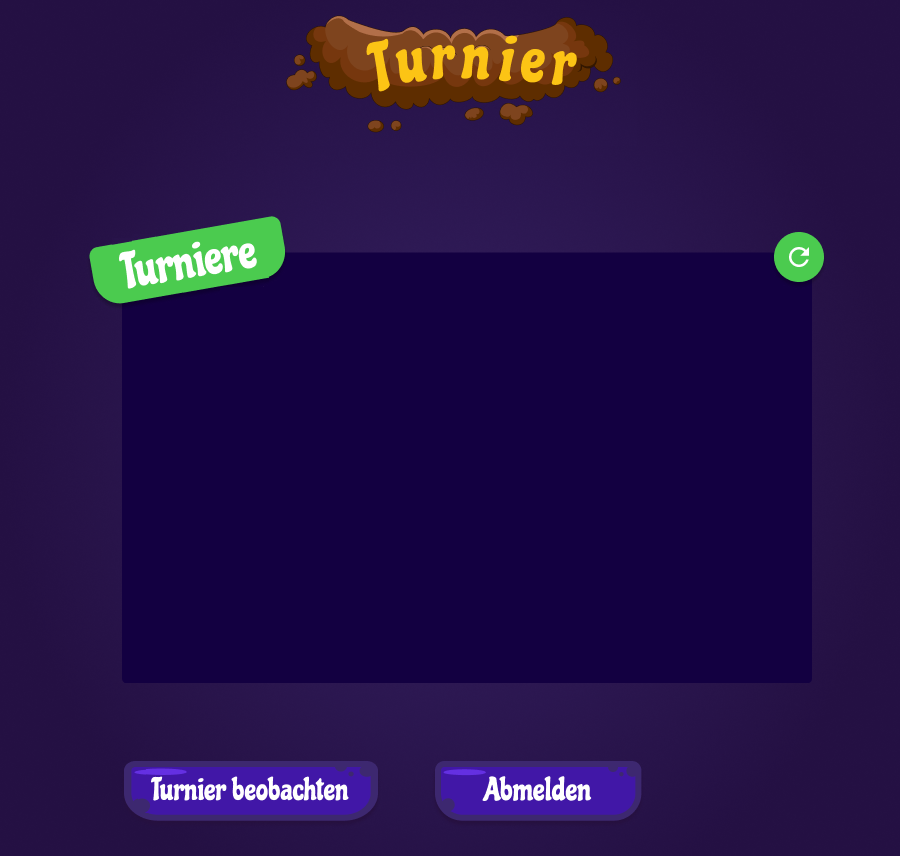
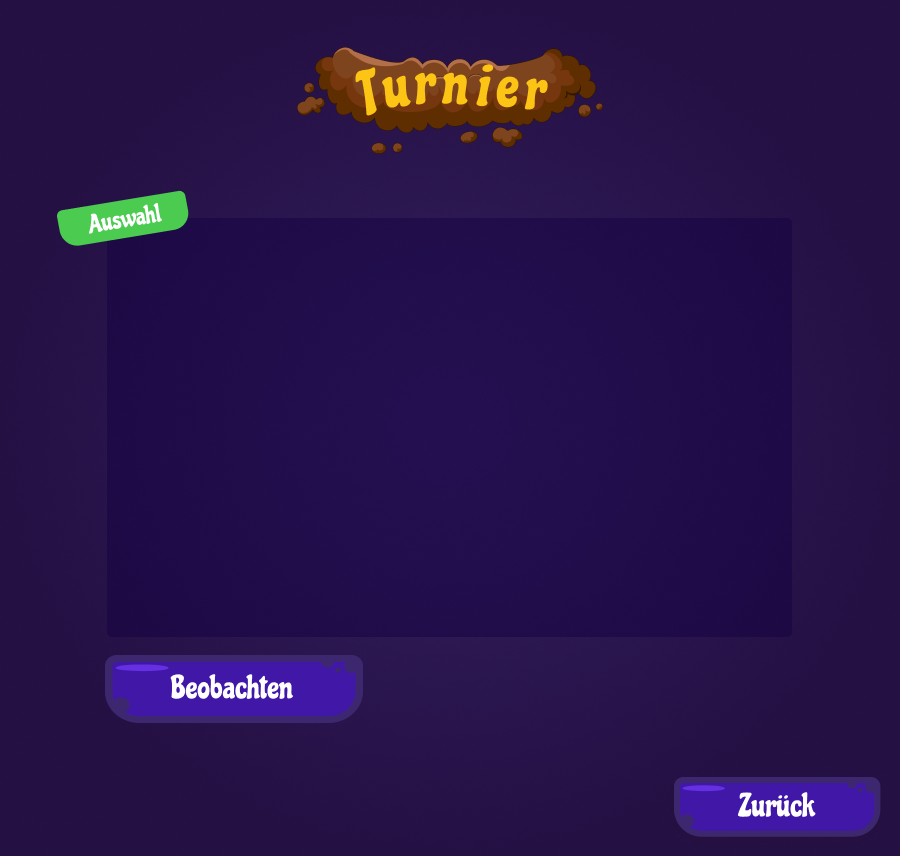
Game selection after login. Changes. Part 6

diff --git a/src/main/java/de/thundergames/gameplay/player/ui/TournamentSelection/TournamentSelection.java b/src/main/java/de/thundergames/gameplay/player/ui/TournamentSelection/TournamentSelection.java
@@ -11,12 +11,13 @@
  * requires the express written consent of ThunderGames | SwtPra10.
  */
 
-package de.thundergames.gameplay.player.ui.GameSelection;
+package de.thundergames.gameplay.player.ui.TournamentSelection;
 
 import de.thundergames.gameplay.player.networking.Client;
-import de.thundergames.gameplay.player.networking.ClientPacketHandler;
+import de.thundergames.gameplay.player.ui.GameSelection.GameSelection;
 import de.thundergames.gameplay.player.ui.SelectionShared;
 import de.thundergames.networking.util.interfaceItems.NetworkGame;
+import de.thundergames.playmechanics.util.Tournament;
 import javafx.event.ActionEvent;
 import javafx.fxml.FXML;
 import javafx.fxml.FXMLLoader;
@@ -36,58 +37,40 @@ import java.io.IOException;
 import java.net.URL;
 import java.util.ResourceBundle;
 
-public class GameSelection extends SelectionShared implements Initializable {
+public class TournamentSelection extends SelectionShared implements Initializable {
 
-    @FXML
+
     private static Client client;
     @FXML
     private Text PlayerName;
     @FXML
-    private TableView<NetworkGame> gameTable;
+    private TableView<Tournament> gameTable;
     @FXML
-    private TableColumn<NetworkGame, Integer> game_Id;
+    private TableColumn<Tournament, Integer> tournament_Id;
     @FXML
-    private TableColumn<NetworkGame, String> game_Player_Count;
-    @FXML
-    private TableColumn<NetworkGame, String> game_State;
+    private TableColumn<Tournament, String> player_Count;
 
-    private static GameSelection gameSelection;
+    private static TournamentSelection tournamentSelection;
 
-    public static GameSelection getGameSelection(){
-        return  gameSelection;
+    public static TournamentSelection getTournamentSelection(){
+        return  tournamentSelection;
     }
-
-    private ClientPacketHandler clientPacketHandler;
 
     public void create(ActionEvent event) throws IOException {
-        createScene(event);
-    }
-
-    private void createScene(ActionEvent event) throws IOException {
-        Stage primaryStage = (Stage) ((Node) event.getSource()).getScene().getWindow();
-        URL location =
-                new File("src/main/java/de/thundergames/gameplay/player/ui/GameSelection/GameSelection.fxml")
-                        .toURI()
-                        .toURL();
-        Parent root = FXMLLoader.load(location);
-        primaryStage.setTitle("Maulwurf Company");
-        primaryStage.setResizable(false);
-        primaryStage.setScene(new Scene(root));
-        primaryStage.show();
+        createScene(event,"src/main/java/de/thundergames/gameplay/player/ui/TournamentSelection/TournamentSelection.fxml");
+        tournamentSelection = this;
     }
 
     @Override
     public void initialize(URL location, ResourceBundle resources) {
         client = Client.getClient();
-        clientPacketHandler= new ClientPacketHandler();
 
         //show username at scene
         PlayerName.setText("Spieler: " + client.name);
 
         // set value for each row
-        game_Id.setCellValueFactory(new PropertyValueFactory("HashtagWithGameID"));
-        game_Player_Count.setCellValueFactory(new PropertyValueFactory("CurrentPlayerCount_MaxCount"));
-        game_State.setCellValueFactory(new PropertyValueFactory("status"));
+        tournament_Id.setCellValueFactory(new PropertyValueFactory("HashtagWithTournamentID"));
+        player_Count.setCellValueFactory(new PropertyValueFactory("playerCount"));
 
         // load data for tableview
         updateTable();
@@ -97,9 +80,9 @@ public class GameSelection extends SelectionShared implements Initializable {
     Refresh the games of tableview
      */
     public void updateTable() {
-        //clear tableview and get games from server and add all to table view
+        //clear tableview and get tournaments from server and add all to table view
         gameTable.getItems().clear();
-        gameTable.getItems().addAll(client.getGames());
+        gameTable.getItems().addAll(client.getTournaments());
     }
 
     @FXML
@@ -108,14 +91,12 @@ public class GameSelection extends SelectionShared implements Initializable {
     }
 
     @FXML
-    void onWatchGameClick(ActionEvent event) {
-        NetworkGame selectedItem = gameTable.getSelectionModel().getSelectedItem();
+    public void onWatchTournamentClick(ActionEvent actionEvent) {
+        Object selectedItem = gameTable.getSelectionModel().getSelectedItem();
         if (selectedItem == null) {
             JOptionPane.showMessageDialog(null, "Es wurde kein Spiel selektiert!", "Spiel beobachten", JOptionPane.OK_OPTION);
             return;
         }
-        clientPacketHandler.joinGamePacket(client,selectedItem.getGameID(),false);
         //Todo:Falls game offen dann. Ansonsten direkt ins Spiel.
-
     }
 }

diff --git a/src/main/java/de/thundergames/gameplay/player/ui/PlayerMenu/PlayerMenu.java b/src/main/java/de/thundergames/gameplay/player/ui/PlayerMenu/PlayerMenu.java
@@ -1,0 +1,89 @@
+/*
+ * Copyright Notice for Swtpra10
+ * Copyright (c) at ThunderGames | SwtPra10 2021
+ * File created on 21.11.21, 22:01 by MarcW
+ * Latest changes made by MarcW on 21.11.21, 22:01
+ * All contents of "PlayerWorkspace" are protected by copyright.
+ * The copyright law, unless expressly indicated otherwise, is
+ * at ThunderGames | SwtPra10. All rights reserved
+ * Any type of duplication, distribution, rental, sale, award,
+ * Public accessibility or other use
+ * requires the express written consent of ThunderGames | SwtPra10.
+ */
+
+package de.thundergames.gameplay.player.ui.PlayerMenu;
+
+import de.thundergames.gameplay.player.networking.Client;
+import de.thundergames.gameplay.player.ui.GameSelection.GameSelection;
+import de.thundergames.gameplay.player.ui.TournamentSelection.TournamentSelection;
+import de.thundergames.networking.util.interfaceItems.NetworkGame;
+import de.thundergames.playmechanics.game.Game;
+import javafx.event.ActionEvent;
+import javafx.fxml.FXML;
+import javafx.fxml.FXMLLoader;
+import javafx.fxml.Initializable;
+import javafx.scene.Node;
+import javafx.scene.Parent;
+import javafx.scene.Scene;
+import javafx.scene.control.TableColumn;
+import javafx.scene.control.TableView;
+import javafx.scene.control.cell.PropertyValueFactory;
+import javafx.scene.text.Text;
+import javafx.stage.Stage;
+
+import javax.swing.*;
+import java.io.File;
+import java.io.IOException;
+import java.net.URL;
+import java.util.ResourceBundle;
+
+public class PlayerMenu  implements Initializable {
+
+
+    private static Client client;
+    @FXML
+    private Text PlayerName;
+
+    public void create(ActionEvent event) throws IOException {
+        Stage primaryStage = (Stage) ((Node) event.getSource()).getScene().getWindow();
+        URL location =
+                new File("src/main/java/de/thundergames/gameplay/player/ui/PlayerMenu/PlayerMenu.fxml")
+                        .toURI()
+                        .toURL();
+        Parent root = FXMLLoader.load(location);
+        primaryStage.setTitle("Maulwurf Company");
+        primaryStage.setResizable(false);
+        primaryStage.setScene(new Scene(root));
+        primaryStage.show();
+    }
+
+    @Override
+    public void initialize(URL location, ResourceBundle resources) {
+        client = Client.getClient();
+
+        //show username at scene
+        PlayerName.setText("Spieler: " + client.name);
+    }
+
+    @FXML
+    void onSignOutClick(ActionEvent event) throws IOException {
+        Stage primaryStage = (Stage) ((Node) event.getSource()).getScene().getWindow();
+        URL location =
+                new File("src/main/java/de/thundergames/gameplay/player/ui/LoginScreen.fxml")
+                        .toURI()
+                        .toURL();
+        Parent root = FXMLLoader.load(location);
+        primaryStage.setResizable(false);
+        primaryStage.setScene(new Scene(root));
+        primaryStage.show();
+        //Todo: client.disconnect();
+    }
+
+    public void onGameClick(ActionEvent event) throws IOException {
+        new GameSelection().create(event);
+    }
+
+    public void onTournamentClick(ActionEvent event) throws IOException {
+        new TournamentSelection().create(event);
+    }
+}

diff --git a/src/main/java/de/thundergames/gameplay/player/networking/ClientPacketHandler.java b/src/main/java/de/thundergames/gameplay/player/networking/ClientPacketHandler.java
@@ -207,7 +207,9 @@ public class ClientPacketHandler {
    * @use handles the joining of a player into the tournament
    */
   protected void handleTournamentPlayerJoinedPacket(
-      @NotNull final Client client, @NotNull final Packet packet) {}
+      @NotNull final Client client, @NotNull final Packet packet) {
+    updateTableView();
+  }
 
   /**
    * @param client
@@ -665,6 +667,7 @@ public class ClientPacketHandler {
         "A player has joined the Game + "
             + new Gson()
                 .fromJson(packet.getValues().get("player").getAsString(), NetworkPlayer.class));
+    updateTableView();
   }
 
   /**
@@ -676,6 +679,7 @@ public class ClientPacketHandler {
   protected void handleWelcomeGamePacket(
       @NotNull final Client client, @NotNull final Packet packet) {
     handleFloor(client, packet);
+    updateTableView();
   }
 
   /**
@@ -736,6 +740,7 @@ public class ClientPacketHandler {
     System.out.println(
         "Client joined game with id: " + packet.getValues().get("gameID").getAsInt());
     client.setGameID(packet.getValues().get("gameID").getAsInt());
+    updateTableView();
   }
 
   /**
@@ -769,9 +774,12 @@ public class ClientPacketHandler {
     client.getClientThread().sendPacket(new Packet(object));
   }
 
+  /**
+   * @author Marc
+   * @use update tableview of game/tournament selection
+   */
+  private void updateTableView() {
+    GameSelection.getGameSelection().updateTable();
+    TournamentSelection.getTournamentSelection().updateTable();
+  }
 }
-
-
-
-
-

diff --git a/src/main/java/de/thundergames/gameplay/ausrichter/GameMasterClient.java b/src/main/java/de/thundergames/gameplay/ausrichter/GameMasterClient.java
@@ -55,11 +55,11 @@ public class GameMasterClient {
 
   public void test_tournament(int id) {
     MoleGames.getMoleGames().getGameHandler().createNewTournament(id);
-    MoleGames.getMoleGames().getGameHandler().getIDTournaments().get(id).getGames().add(new NetworkGame(2));
-    MoleGames.getMoleGames().getGameHandler().getIDTournaments().get(id).getGames().add(new NetworkGame(8));
-    MoleGames.getMoleGames().getGameHandler().getIDTournaments().get(id).getGames().add(new NetworkGame(3));
-    MoleGames.getMoleGames().getGameHandler().getIDTournaments().get(id).getGames().add(new NetworkGame(6));
+    MoleGames.getMoleGames().getGameHandler().getIDTournaments().get(id).getGames().add(new NetworkGame(31));
+    MoleGames.getMoleGames().getGameHandler().getIDTournaments().get(id).getGames().add(new NetworkGame(82));
+    MoleGames.getMoleGames().getGameHandler().getIDTournaments().get(id).getGames().add(new NetworkGame(31));
+    MoleGames.getMoleGames().getGameHandler().getIDTournaments().get(id).getGames().add(new NetworkGame(62));
     MoleGames.getMoleGames().getGameHandler().getIDTournaments().get(id).getGames().add(new NetworkGame(23));
-    MoleGames.getMoleGames().getGameHandler().getIDTournaments().get(id).getGames().add(new NetworkGame(7));
+    MoleGames.getMoleGames().getGameHandler().getIDTournaments().get(id).getGames().add(new NetworkGame(741));
   }
 }

diff --git a/src/main/java/de/thundergames/gameplay/player/ui/SelectionShared.java b/src/main/java/de/thundergames/gameplay/player/ui/SelectionShared.java
@@ -1,0 +1,29 @@
+package de.thundergames.gameplay.player.ui;
+
+import javafx.event.ActionEvent;
+import javafx.fxml.FXMLLoader;
+import javafx.scene.Node;
+import javafx.scene.Parent;
+import javafx.scene.Scene;
+import javafx.stage.Stage;
+
+import java.io.File;
+import java.io.IOException;
+import java.net.URL;
+
+public class SelectionShared {
+
+    protected void createScene(ActionEvent event,String scenePath) throws IOException {
+        Stage primaryStage = (Stage) ((Node) event.getSource()).getScene().getWindow();
+        URL location =
+                new File(scenePath)
+                        .toURI()
+                        .toURL();
+        Parent root = FXMLLoader.load(location);
+        primaryStage.setTitle("Maulwurf Company");
+        primaryStage.setResizable(false);
+        primaryStage.setScene(new Scene(root));
+        primaryStage.show();
+    }
+
+}

diff --git a/src/main/java/de/thundergames/gameplay/player/ui/LoginScreen.java b/src/main/java/de/thundergames/gameplay/player/ui/LoginScreen.java
@@ -11,6 +11,7 @@ package de.thundergames.gameplay.player.ui;
 
 import de.thundergames.gameplay.player.networking.Client;
 import de.thundergames.gameplay.player.ui.GameSelection.GameSelection;
+import de.thundergames.gameplay.player.ui.PlayerMenu.PlayerMenu;
 import javafx.application.Application;
 import javafx.event.ActionEvent;
 import javafx.fxml.FXML;
@@ -73,7 +74,7 @@ public class LoginScreen extends Application {
     String name = "Marc";
     Client client = new Client(Integer.parseInt(port), ip, name);
     client.create();
-    new GameSelection().create(event);
+    new PlayerMenu().create(event);
   }
 
   @FXML

diff --git a/src/main/java/de/thundergames/playmechanics/util/Tournament.java b/src/main/java/de/thundergames/playmechanics/util/Tournament.java
@@ -105,4 +105,11 @@ public class Tournament {
   public TournamentState getTournamentState() {
     return tournamentState;
   }
+
+  /**
+   * @return tournamentID with a hashtag in front of it
+   */
+  public String getHashtagWithTournamentID() {
+    return "#" + tournamentID;
+  }
 }
